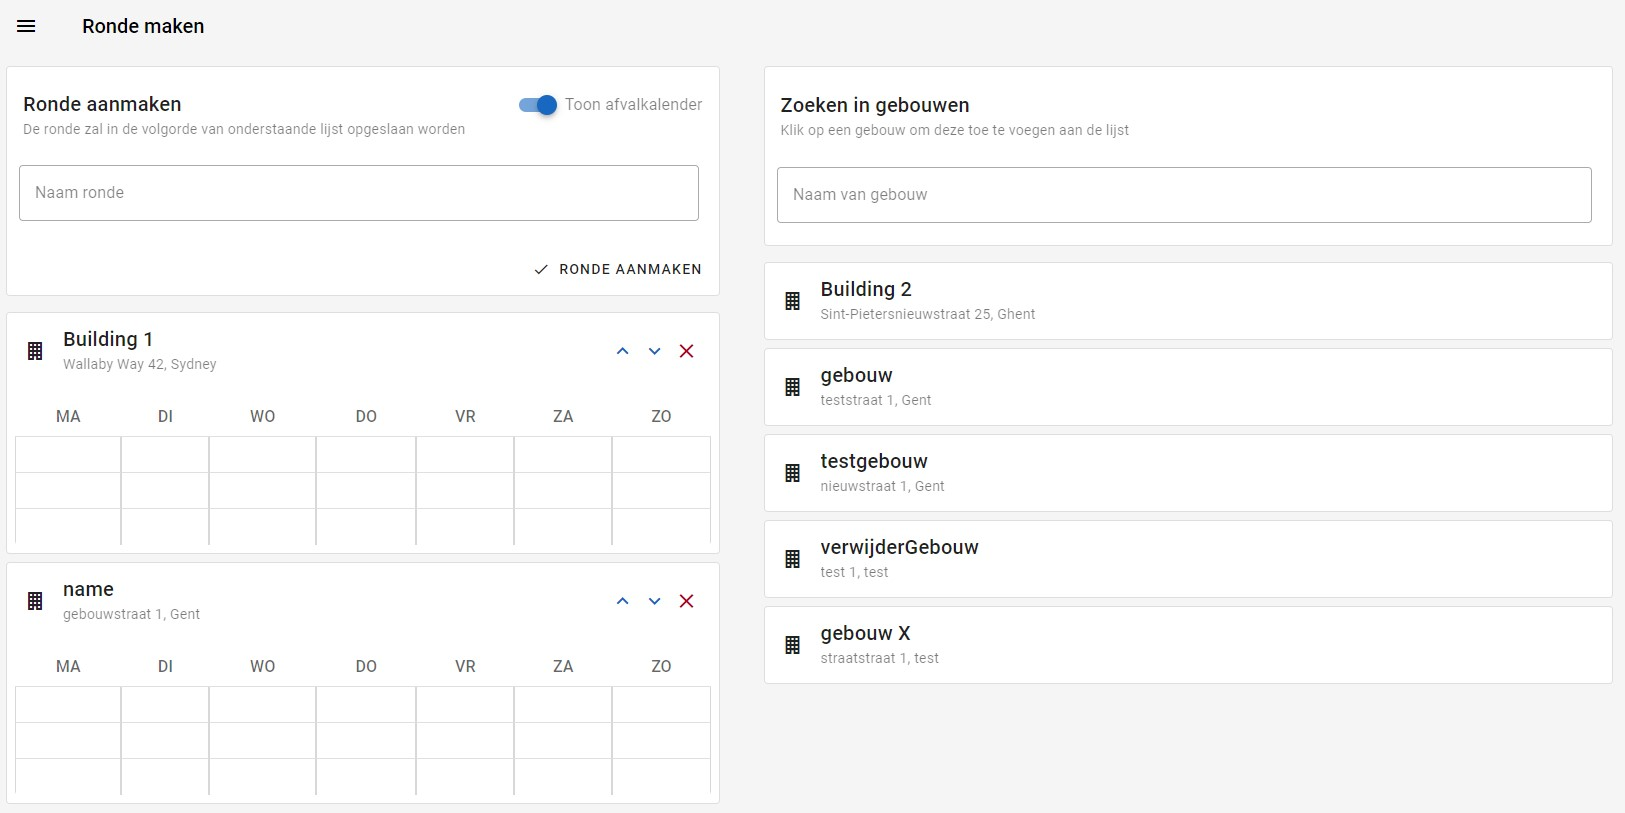
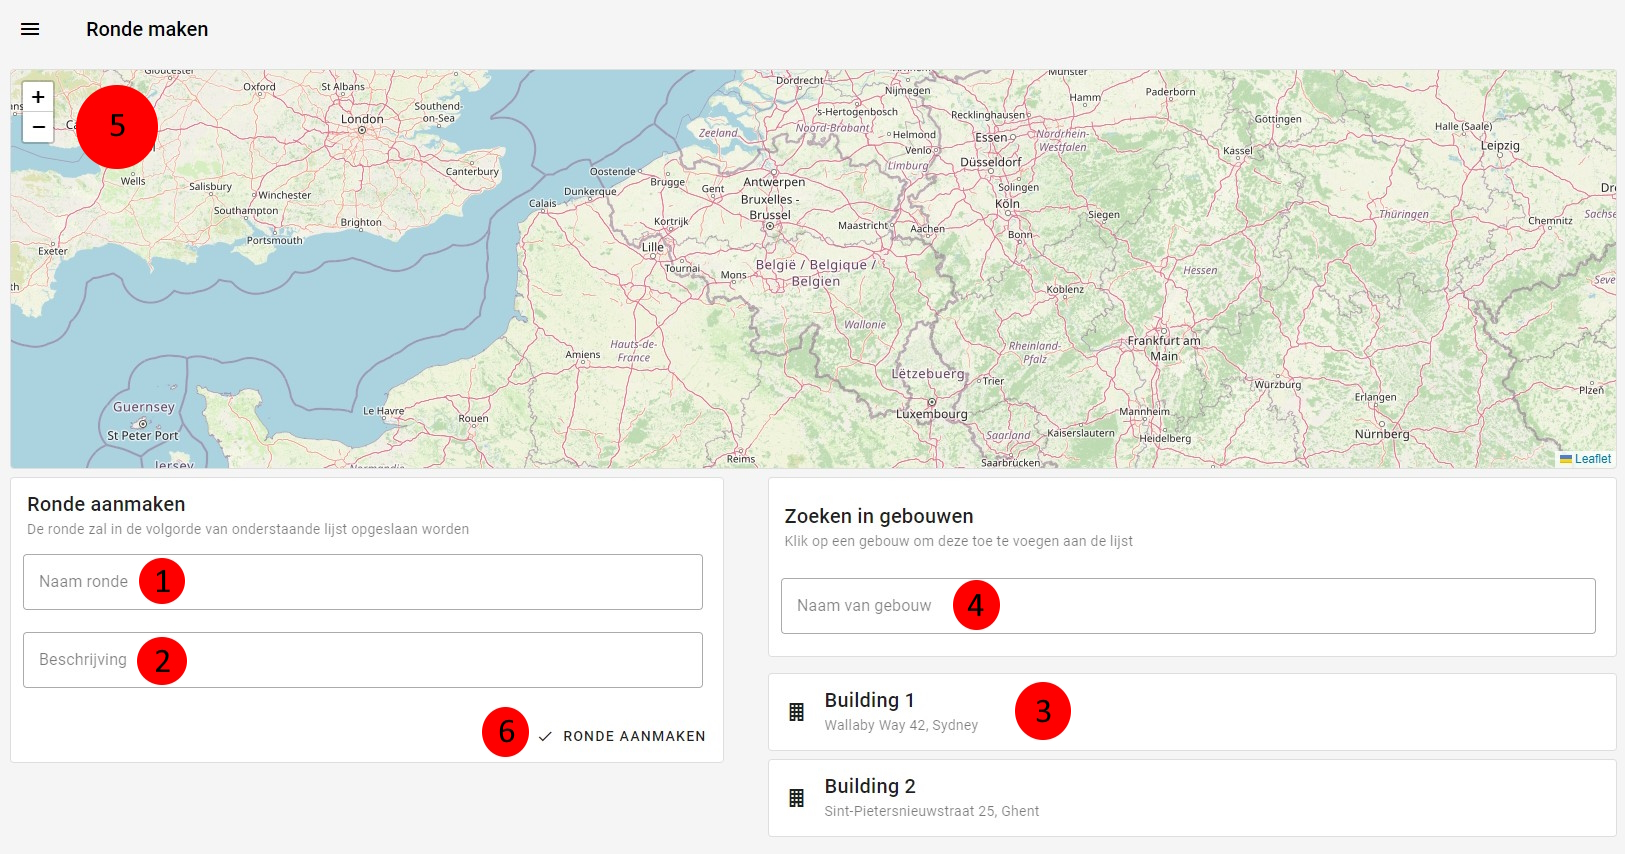
docs: round creation

diff --git a/docs/manual/pages/create/create_rondes.md b/docs/manual/pages/create/create_rondes.md
@@ -1,28 +1,33 @@
 # Nieuwe ronde
 Een [admin](../../users/admin.md) of [superstudent](../../users/superstudent.md) kan op deze pagina een nieuwe ronde aanmaken.
 
-|                    Nieuwe ronde                     |
-|:---------------------------------------------------:|
-| ![](../../assets/administration/round_creation.jpg) |
-
-### Naam
-Een ronde moet een naam krijgen.
-
-### Gebouwen
-Een ronde moet natuurlijk ook gebouwen bezitten.
-Deze kunnen toegevoegd worden door op het kaartje van het gebouw te klikken.
-Via de zoekbalk kan het gewenste gebouw makkelijker gevonden worden.
-Nadat een gebouw toegevoegd is zal deze verschijnen aan de linkerkant van het scherm.
-
-|                 Volgorde van gebouwen                 |
+|                     Nieuwe ronde                      |
 |:-----------------------------------------------------:|
 | ![](../../assets/administration/round_creation_1.jpg) |
+
+### 1. Naam
+Een ronde moet een naam krijgen.
+
+### 2. Beschrijving
+Voeg een beschrijving van de ronde toe.
+
+### 3,4,5. Gebouwen
+Een ronde moet natuurlijk ook gebouwen bezitten.
+Deze kunnen toegevoegd worden door op het kaartje van het gebouw te klikken (3).
+Via de zoekbalk kan het gewenste gebouw makkelijker gevonden worden (4).
+Nadat een gebouw toegevoegd is zal deze verschijnen aan de linkerkant van het scherm
+alsook op de kaart (5).
+
+|                    Voorbeeld ronde                    |
+|:-----------------------------------------------------:|
+| ![](../../assets/administration/round_creation_2.jpg) |
 
 De rondes hoeven niet in volgorde toegevoegd te worden.
 De volgorde kan gewijzigd worden door op de blauwe pijlen te drukken.
 In de finale volgorde is het gebouw dat boven de andere staat ook het eerste gebouw in de ronde.
+Via de indices die bij de gebouwen op de kaart staan, wordt dit ook duidelijker.
 Wanneer een verkeerd gebouw werd toegevoegd, kan deze verwijderd worden door op het rode kruisje te drukken.
 
-### Aanmaken
+### 6. Aanmaken
 De ronde wordt aangemaakt wanneer op de knop ```ronde aanmaken``` wordt gedrukt.
 Hierna wordt u doorgestuurd naar de [rondepagina](../detail/ronde.md) van de net aangemaakte ronde.
